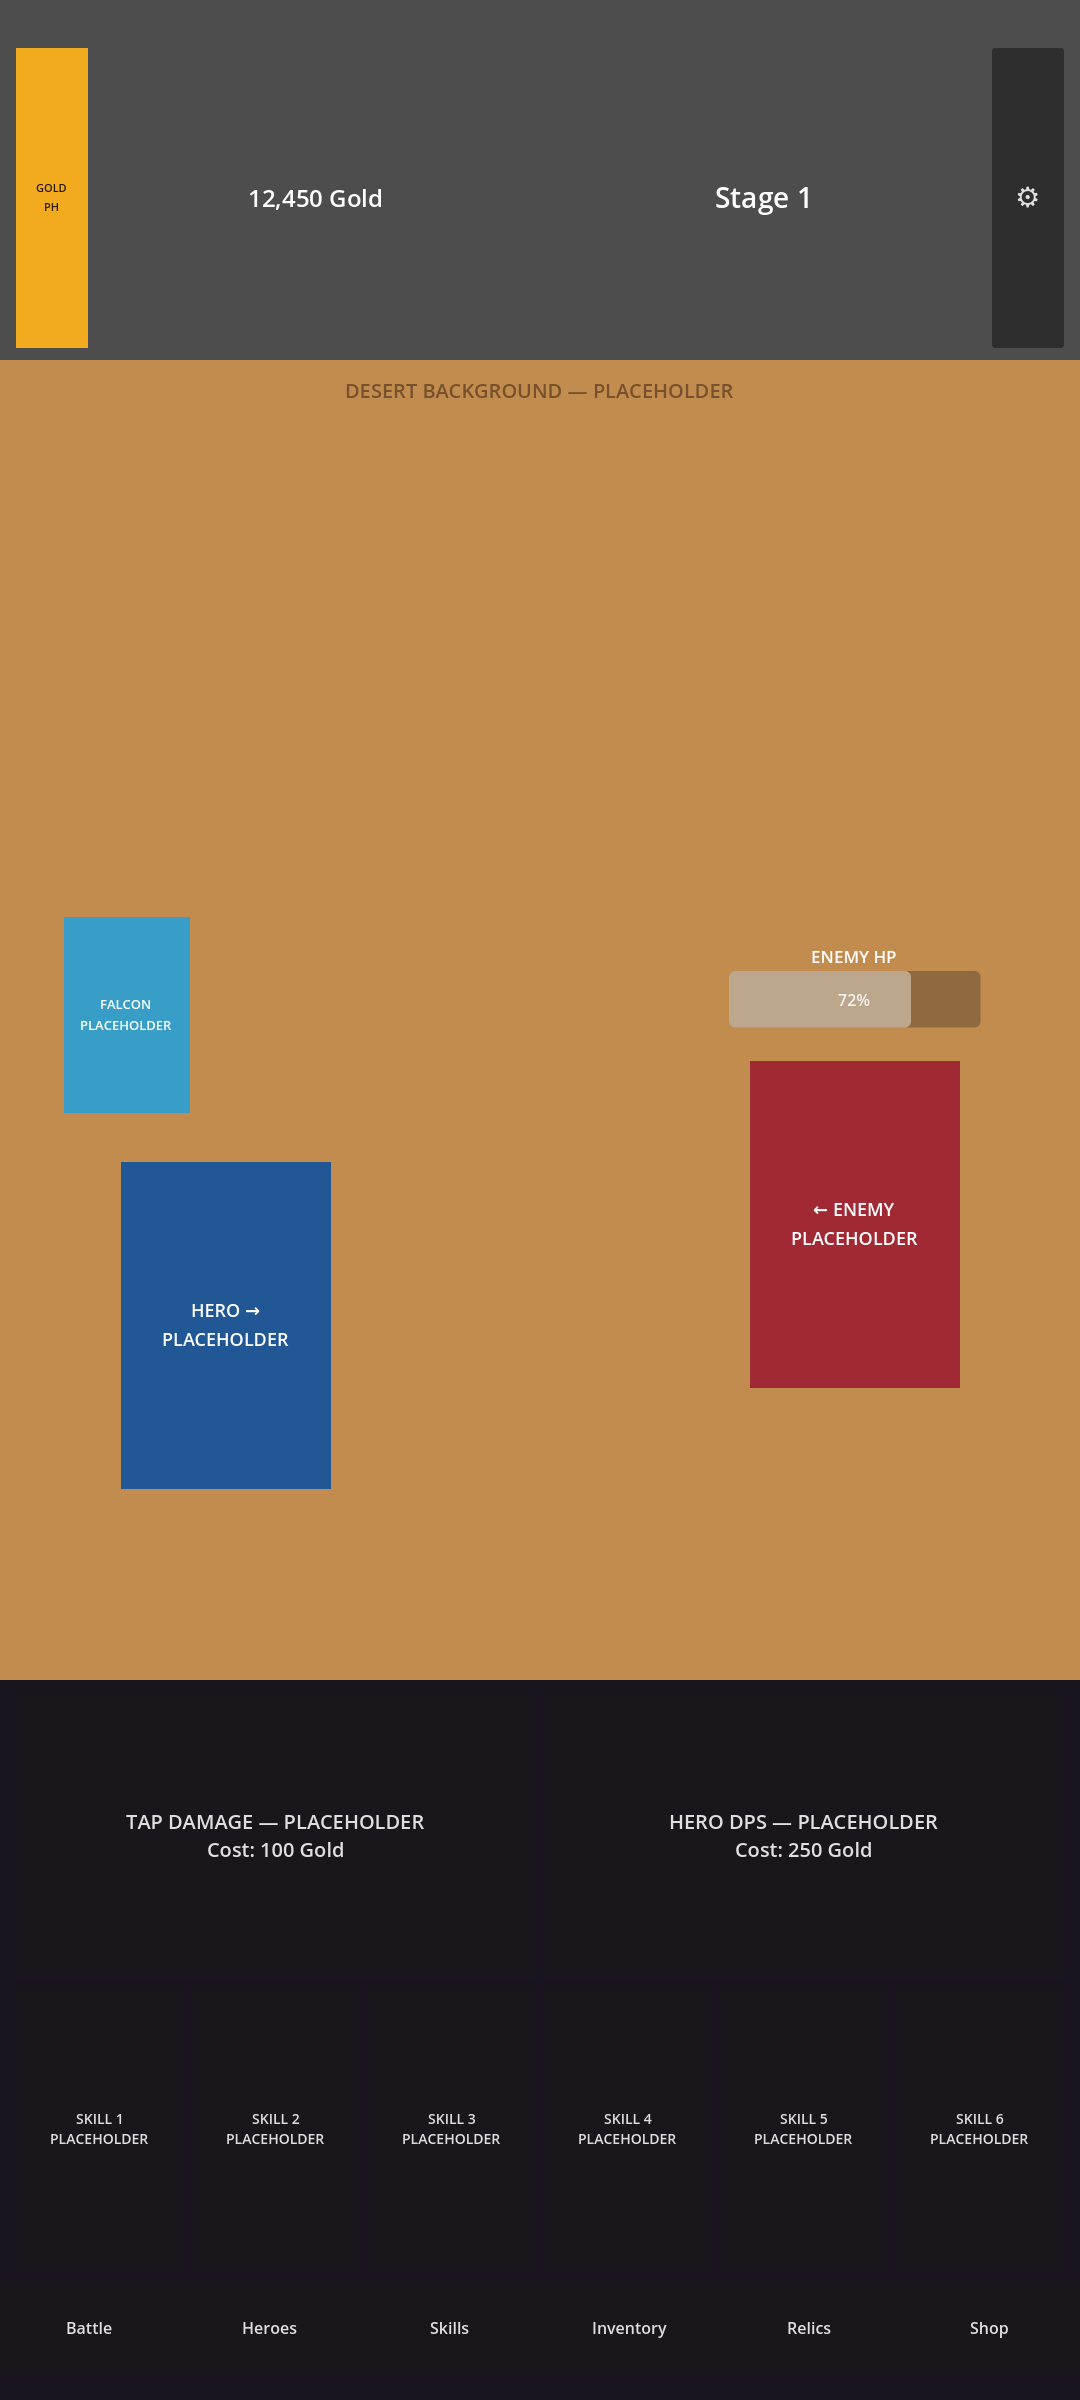
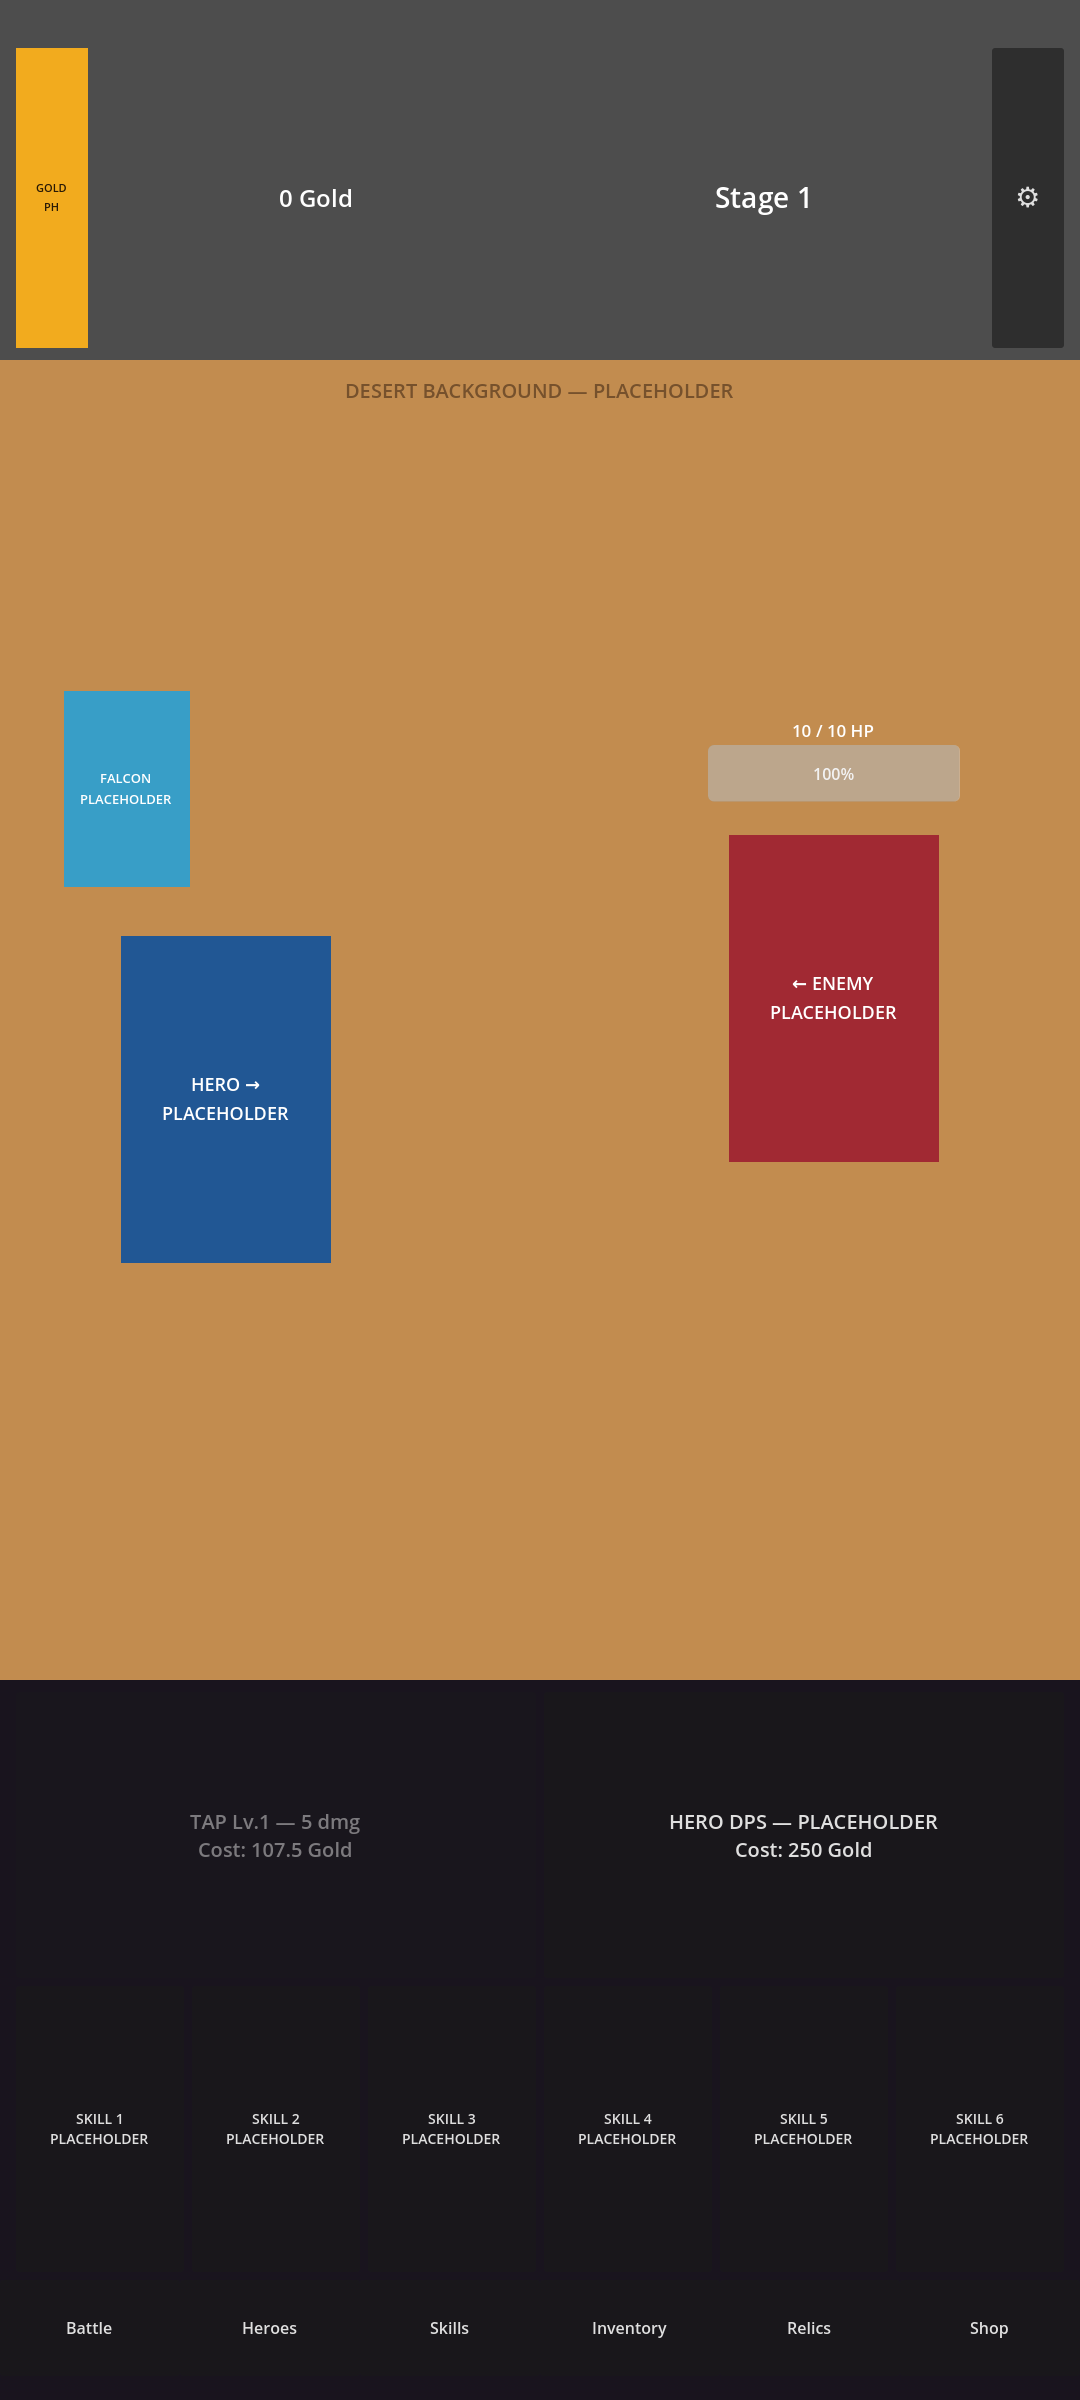
Close Gate 2: falcon strike, boss failure/retry, composition, pool bounds
Falcon now lunges toward the enemy on the same frame its cyan damage number
appears, so it visibly owns its damage instead of silently contributing.

Capture the two states that were previously only proven in logic: boss failure
(BOSS FAILED / TIME UP, gold kept, Retry Boss offered) and the state after
pressing Retry (boss battle resumed, timer and HP restored).

Raise the actors from the lower edge into the middle band, removing the dead
space that the first composition pass left at the top of the combat area.

Add test_pool_bounds.gd proving the damage-number pool stabilises at 32 nodes
after 1200 hits rather than growing without bound.

All suites pass (98 assertions). Layout re-verified at 720x1280, 1080x1920 and
1080x2400 after the changes.

Claude-Session: https://claude.ai/code/session_01LtdD2JM14sFEfe94V3vXFe

diff --git a/docs/GAUNTLET_LEDGER.md b/docs/GAUNTLET_LEDGER.md
@@ -50,10 +50,12 @@ Current milestone: **M0 → Gate 1 (Technical Foundation)**
 | C5 | At 720x1280 the hero, enemy, HP bar, upgrade labels and skill buttons were clipped off-screen | P1 | RESOLVED — layout made proportional; re-verified by capture |
 | C6 | Gold icon label overflowed its box at 720 wide | P2 | RESOLVED — clip_text |
 | C7 | Faint ghost text from a stale framebuffer in the tall capture | P3 | MITIGATED — extra frame before capture; re-check next capture |
-| C8 | Combat area has large empty upper region; actors sit low | P2 | OPEN — composition pass pending |
+| C8 | Combat area has large empty upper region; actors sit low | P2 | RESOLVED — actors moved to the middle band |
 | C9 | `_react_to_attack` crashed on an ignored/no-op attack result (only `_gui_input` guarded it) | P1 | RESOLVED — guard moved into `_react_to_attack` so every caller is safe |
 | C10 | Damage numbers stacked at one point and were illegible under rapid taps | P2 | RESOLVED — positional scatter + horizontal drift |
-| C11 | Falcon attack and boss-failure/Retry states not yet visually captured | P2 | OPEN — logic tested, visuals pending |
+| C11 | Falcon attack and boss-failure/Retry states not yet visually captured | P2 | RESOLVED — both captured |
+| C12 | Falcon dealt damage but never visibly moved, so it did not appear to own its damage | P2 | RESOLVED — lunge tween fires on the same frame as the cyan number |
+| C13 | Retry Boss button sits between hero and enemy inside the combat area | P3 | OPEN — acceptable in blockout, revisit in UI polish |
 
 ## Blockers
 
@@ -66,7 +68,7 @@ Current milestone: **M0 → Gate 1 (Technical Foundation)**
   representative of real GPU performance. Visual/layout evidence is valid;
   performance evidence is not.
 
-## Gate 2 — combat vertical slice (in progress)
+## Gate 2 — combat vertical slice — **PASSED** (2026-08-18)
 
 Logic lives in `scripts/combat/combat_state.gd` as a pure RefCounted class with
 no node access, so the invariants are unit-testable headless. Presentation is
@@ -75,27 +77,29 @@ no node access, so the invariants are unit-testable headless. Presentation is
 | Requirement | Status | Evidence |
 | --- | --- | --- |
 | Tap input, normal + critical damage | PASS | `combat_motion.png` — yellow 5, orange-red 25 |
-| Falcon damage (cyan) | LOGIC PASS, visual unconfirmed | `falcon_tick` tested; not yet captured mid-attack |
+| Falcon damage (cyan) + visible strike | PASS | `combat_falcon.png` — falcon lunges toward the enemy and the cyan 2 appears in the same frame as the yellow 5 |
 | Pooled damage numbers | PASS | 32 pre-allocated, reused; scattered so rapid taps stay readable |
 | Enemy recoil + flash + HP + death | PASS | enemy renders flashed pink, HP 0%, stage advances |
 | Gold reward | PASS | 12.4 Gold after kills |
 | Hero upgrade + affordance | PASS | "TAP Lv.1 — 5 dmg / Cost 107.5" greyed when unaffordable |
 | Stage progression | PASS | stage 1 -> 2 -> 3 across captures |
 | Boss every 10 stages, 30s timer | PASS | `combat_boss.png` — "Stage 10 — BOSS", 29.7s, HP 4.13K (8x) |
-| Boss failure keeps gold, Retry | LOGIC PASS, visual unconfirmed | adversarial tests 5-7 |
+| Boss failure keeps gold, Retry | PASS | `combat_boss_fail.png` (BOSS FAILED / TIME UP, Retry Boss button, gold kept) and `combat_boss_retry.png` (banner back to BOSS BATTLE, timer 29.9s, HP restored 100%) |
+| Pool bounds allocation | PASS | `test_pool_bounds.gd` — stable at 32 nodes after 1200 hits |
+| Composition | PASS | actors raised from y 0.60/0.52 to 0.42/0.34; dead space at top removed |
+| Layout unbroken at all sizes | PASS | re-captured 720x1280, 1080x1920, 1080x2400 after the fixes |
 | Save/reload | PASS | saves on stage change via SaveManager |
 
-Test totals: 95 assertions passing (36 BigNumber + 12 adversarial, 36 save + 17
+Test totals: 98 assertions passing (36 BigNumber + 12 adversarial, 36 save + 17
 adversarial, 23 combat + 13 adversarial). `ALL SUITES PASSED`.
 
 Evidence: `docs/evidence/combat_motion.png`, `combat_boss.png`, `combat_idle.png`
 
 ## Next highest-priority action
 
-1. Capture falcon attack (cyan damage) and the boss-failure / Retry Boss state.
-2. Close C8 composition (actors sit low, large empty upper area).
-3. Rapid-tap node-count measurement to prove the pool bounds allocation.
-4. Then Gate 2 exit review.
+**Gate 3 — progression loop.** Support-hero DPS, falcon as a real damage source
+over time, active skills with distinct durations/cooldowns, the progression wall,
+Prestige with reset/preserve rules, and permanent Relics — all surviving reload.
 
 ## Placeholders
 
